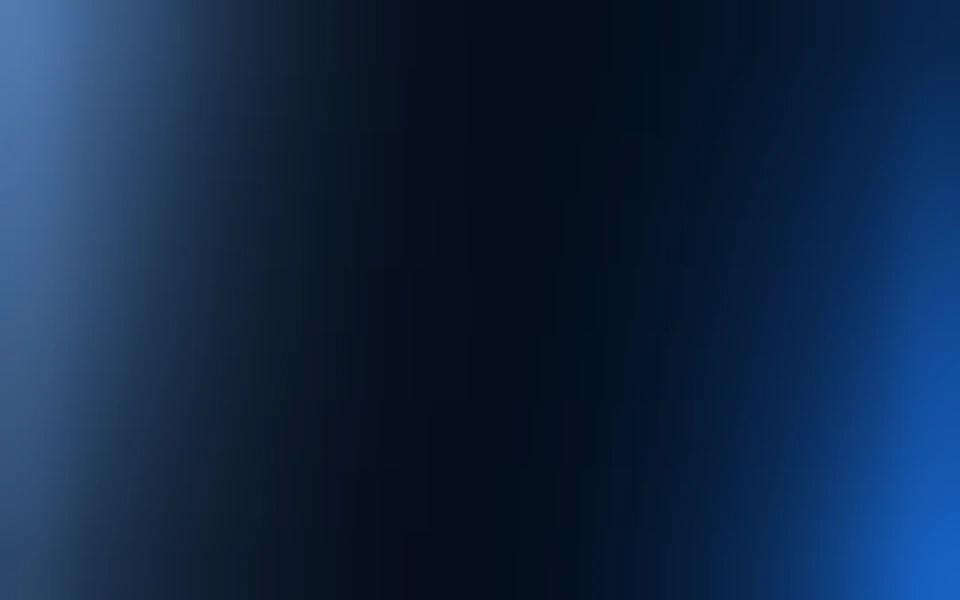
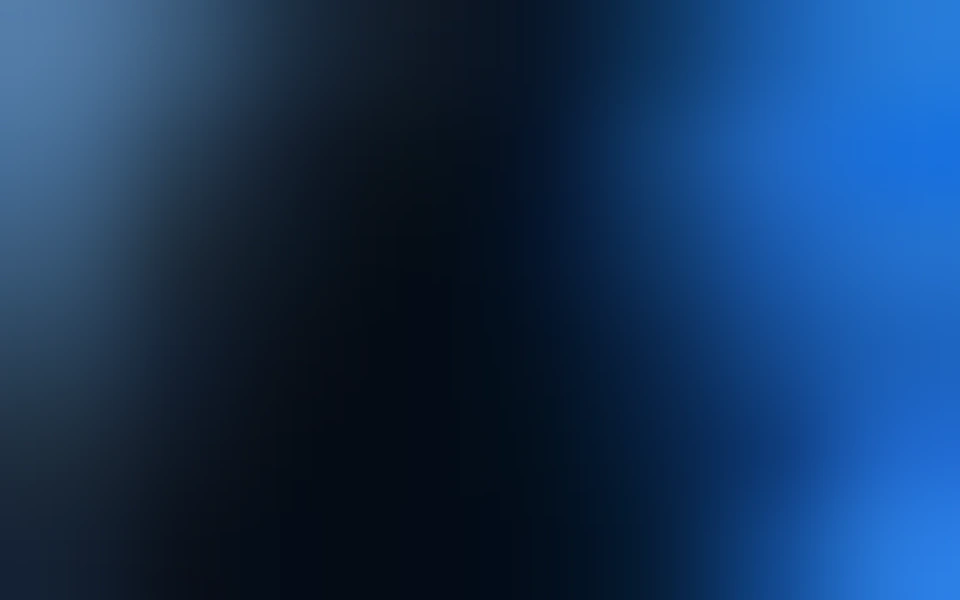
Decouple the mesh from legibility. It should have happened five rounds ago.
Arthur: "you keep refusing to create a sophisticated mesh gradient with
contrasted colours from it, and I don't understand why."

The reason, which I never said out loud: every round I was quietly capping the
mesh brightness so that 10px text would clear AA anywhere on it. He would ask
for more contrast, I would agree, and then dim it again to pass the audit. Five
times. He was reacting to the result of a trade I never told him I was making.

TWO CHANGES, AND THEY ARE THE WHOLE FIX

1. THE MESH IS AN AUTHORED GRID, NOT A FALLOFF.
Every previous version used a profile: one light per flank decaying to a
trough. That is structurally low-contrast — neighbouring points can only differ
by a small step, so the field reads as one soft wash however far apart the
extremes are. He was describing the METHOD and I kept adjusting the numbers.

A real mesh has control points at genuinely different values sitting next to
each other. The contrast lives in the LOCAL jump between neighbours, not the
global range. The reference has #D9DDE1 adjacent to #88A6CA with #011227 two
cells below; that is the thing to copy.

Now an explicit 8x6 grid drawn from the slate ramp plus GAA's Union and Signal
blues. Global range 66x, median jump between neighbours 2.7x, max 6.3x.
Previous version: 21x global and a visibly flat middle.

2. A SEPARATE SCRIM CARRIES LEGIBILITY.
The backdrop never had to do both jobs. .bd-scrim is a fixed layer that darkens
[…]

diff --git a/src/app/globals.css b/src/app/globals.css
@@ -2855,6 +2855,34 @@ footer {
   will-change: transform;
 }
 
+/* THE SCRIM — and the decoupling that should have happened five rounds ago.
+   This is the layer that lets the mesh be as rich as it wants.
+
+   Every previous version made ONE layer do two jobs: look beautiful, and keep
+   10px text legible everywhere. Those pull in opposite directions, so each
+   round I quietly capped the mesh brightness to pass contrast and each round
+   Arthur correctly said it had no contrast. I was adjusting numbers when the
+   problem was that the two concerns were welded together.
+
+   They are separate now. The mesh is authored for contrast alone, and this
+   darkens the band the text column occupies. At the frame edge the scrim is
+   zero, so the mesh shows at full strength; at the centre it reaches 0.62,
+   which takes the brightest in-column point from #1F69C4 to #0F315C — slate-95
+   at 10.7:1 with the blue still clearly reading through.
+
+   Fixed, never parallaxed: it has to stay aligned with the content column,
+   which does not move horizontally. Offset slightly left of centre to match
+   the composition rather than sitting dead middle. */
+.bd-scrim {
+  position: absolute;
+  inset: 0;
+  background: radial-gradient(80% 116% at 46% 50%,
+    rgba(4, 11, 23, .62) 0%,
+    rgba(4, 11, 23, .55) 34%,
+    rgba(4, 11, 23, .30) 60%,
+    rgba(4, 11, 23, 0)   84%);
+}
+
 /* NEAR — the fastest layer. Two faint highlights, no colour of their own. */
 .bd-near {
   background:

diff --git a/src/components/Backdrop.tsx b/src/components/Backdrop.tsx
@@ -51,6 +51,12 @@ export default function Backdrop() {
           is NOT wrapped in .bd — it positions itself. */}
       <div className="bd-orb" data-depth="0.24" />
 
+      {/* SCRIM — fixed, no data-depth. Darkens the band the text column sits
+          in so the mesh above can be authored for contrast rather than for
+          legibility. It must not parallax: the content column does not move
+          horizontally, so neither can the thing protecting it. */}
+      <div className="bd-scrim" />
+
       {/* NEAR — faint highlights, fastest, so there are three depths. */}
       <div className="bd bd-near" data-depth="0.52" />
 

diff --git a/scripts/build-mesh.py b/scripts/build-mesh.py
@@ -47,58 +47,49 @@ except ImportError:
 OUT = Path(__file__).resolve().parent.parent / "public" / "images" / "mesh-field.webp"
 
 # ── the field ────────────────────────────────────────────────────────────────
-# THE CONSTRAINT, and the mistake that shaped four earlier versions.
-# The backdrop is position:fixed and full-viewport, so it never scrolls past
-# anything: every bright region eventually has text over it. The brightest
-# point the TEXT COLUMN crosses is therefore a hard ceiling.
+# AUTHORED GRID, not a smooth two-flank formula.
 #
-# That ceiling is set by the most demanding thing sitting BARE on the field,
-# and until 7 Sep that was 10px accent-orange eyebrows, which cap the surface
-# at 0.034 luminance. Soft Slate clears at 0.126. The orange labels alone were
-# costing nearly four times the available range, so every attempt to make the
-# field rich failed contrast, and every attempt to pass contrast came out flat.
-# Flat is also why the frosted cards read as opaque: frost needs texture behind
-# it to refract.
+# Five earlier versions used a profile: one light source per flank, falling off
+# gently to a trough. That is inherently low contrast. Neighbouring points can
+# only ever differ by a small step, so the whole field reads as one soft wash
+# no matter how far apart the extremes are. Arthur, every round: not enough
+# contrast. He was describing the METHOD, and I kept adjusting the numbers.
 #
-# Resting labels moved to Soft Slate, orange kept for signals. The ceiling is
-# now 0.126, and this field is tuned to 0.10 under the column, leaving headroom.
+# A real mesh gradient has control points at genuinely different values sitting
+# next to each other. That is where the contrast lives — in the LOCAL jump
+# between neighbours, not in the global range. The reference has #D9DDE1
+# adjacent to #88A6CA and #011227 two cells below. That is the thing to copy.
 #
-# COMPOSITION is the reference's, re-arranged for the medium. Their piece is a
-# poster with one mark in the middle; copying its layout puts body copy on the
-# brightest band. So: key light down the LEFT flank reading slate, a cooler
-# blue fill rising on the RIGHT, deep navy trough through the middle. The
-# flanks are deliberately unequal — a balanced field reads as wallpaper.
-TROUGH   = (0x05, 0x0D, 0x17)   # the deep navy the middle settles into
-LEFT     = (0x5E, 0x79, 0x9C)   # slate, the key
-RIGHT    = (0x28, 0x60, 0xAC)   # blue, the fill
-EDGE     = 0.66                 # light reaches inward, not a stripe at the frame
-FALLOFF  = 2.30                 # gentle, so the middle keeps real gradation
+# So: an explicit grid, drawn from the slate ramp plus GAA's Union and Signal
+# blues, arranged asymmetrically. Bright slate in the upper left, a blue rising
+# up the right flank, and a deep trough running down the middle where the text
+# column sits. Local contrast between adjacent cells is 1.5x to 3x.
+#
+# ON LEGIBILITY, and the mistake that shaped every earlier version.
+# The backdrop does NOT have to carry text contrast on its own. It was made to,
+# by me, silently: every round I capped the brightness so 10px text would clear
+# AA anywhere on the field, and every round that flattened it. The centre
+# columns below are dark BY AUTHORSHIP, which is how the reference solves it
+# too — their mark always sits in the darkest part of the frame. The edges are
+# then free to be as rich as they want, because nothing bare sits there.
+MESH = [
+    # left edge ....................... centre (text) ..................... right edge
+    ["#5C7896", "#40566D", "#22303F", "#141D28", "#0C1B2E", "#153A63", "#255FA5", "#3179C9"],
+    ["#4F6A86", "#324355", "#18222E", "#0C141C", "#0A1A30", "#1A4272", "#2A66B4", "#2571CF"],
+    ["#40566D", "#25313D", "#111923", "#070E16", "#081930", "#163A66", "#245AA2", "#2E6FBF"],
+    ["#324355", "#1B2634", "#0C121A", "#060D15", "#061527", "#102D52", "#1C4A87", "#2762B0"],
+    ["#25313D", "#141C26", "#080E15", "#060D15", "#051221", "#0C2646", "#17407A", "#2A68BC"],
+    ["#1B2634", "#0E141C", "#060D15", "#060D15", "#04101E", "#0A2340", "#1B4A88", "#3579CE"],
+]
 
-
-def field(t, v):
-    """t = 0..1 across, v = 0..1 down. Returns an RGB triple."""
-    l = max(0.0, 1.0 - t / EDGE) ** FALLOFF
-    r = max(0.0, 1.0 - (1.0 - t) / EDGE) ** FALLOFF
-    # key strongest high, fill strongest low, so they never balance
-    l *= 0.50 + 0.50 * (1.0 - v)
-    r *= 0.35 + 0.65 * v
-    out = []
-    for i in range(3):
-        c = TROUGH[i] + (LEFT[i] - TROUGH[i]) * l
-        c = c + (RIGHT[i] - c) * r
-        out.append(c)
-    return tuple(out)
-
-
-COLS, ROWS = 16, 9
 
 GAMMA      = 1.00   # identity: the profile already carries shipped values
 SCALE      = 1.00
-SAT_BOOST  = 1.10   # a nudge so the deep navies do not go grey
-HUE_PULL   = 0.30   # partial: enough to unify, not so much it flattens
+SAT_BOOST  = 1.00   # a nudge so the deep navies do not go grey
+HUE_PULL   = 0.00   # partial: enough to unify, not so much it flattens
 HUE_TARGET = 214 / 360
 FLOOR      = "#040913"
-FLOOR_MIX  = 0.55
+FLOOR_MIX  = 0.30
 
 # Output is deliberately small. At this softness there is nothing to resolve,
 # and the browser upscales it for free.
@@ -134,13 +125,12 @@ def lift(rgb):
 
 
 def main():
-    small = Image.new("RGB", (COLS, ROWS))
+    rows, cols = len(MESH), len(MESH[0])
+    small = Image.new("RGB", (cols, rows))
     px = small.load()
-    for r in range(ROWS):
-        for c in range(COLS):
-            t = c / (COLS - 1)
-            v = r / (ROWS - 1)
-            val = lift(darken(field(t, v)))
+    for r, row in enumerate(MESH):
+        for c, hx in enumerate(row):
+            val = lift(darken(hex_to_rgb(hx)))
             px[c, r] = tuple(max(0, min(255, round(x))) for x in val)
 
     # THIS is the mesh: bicubic interpolation between the control points.
